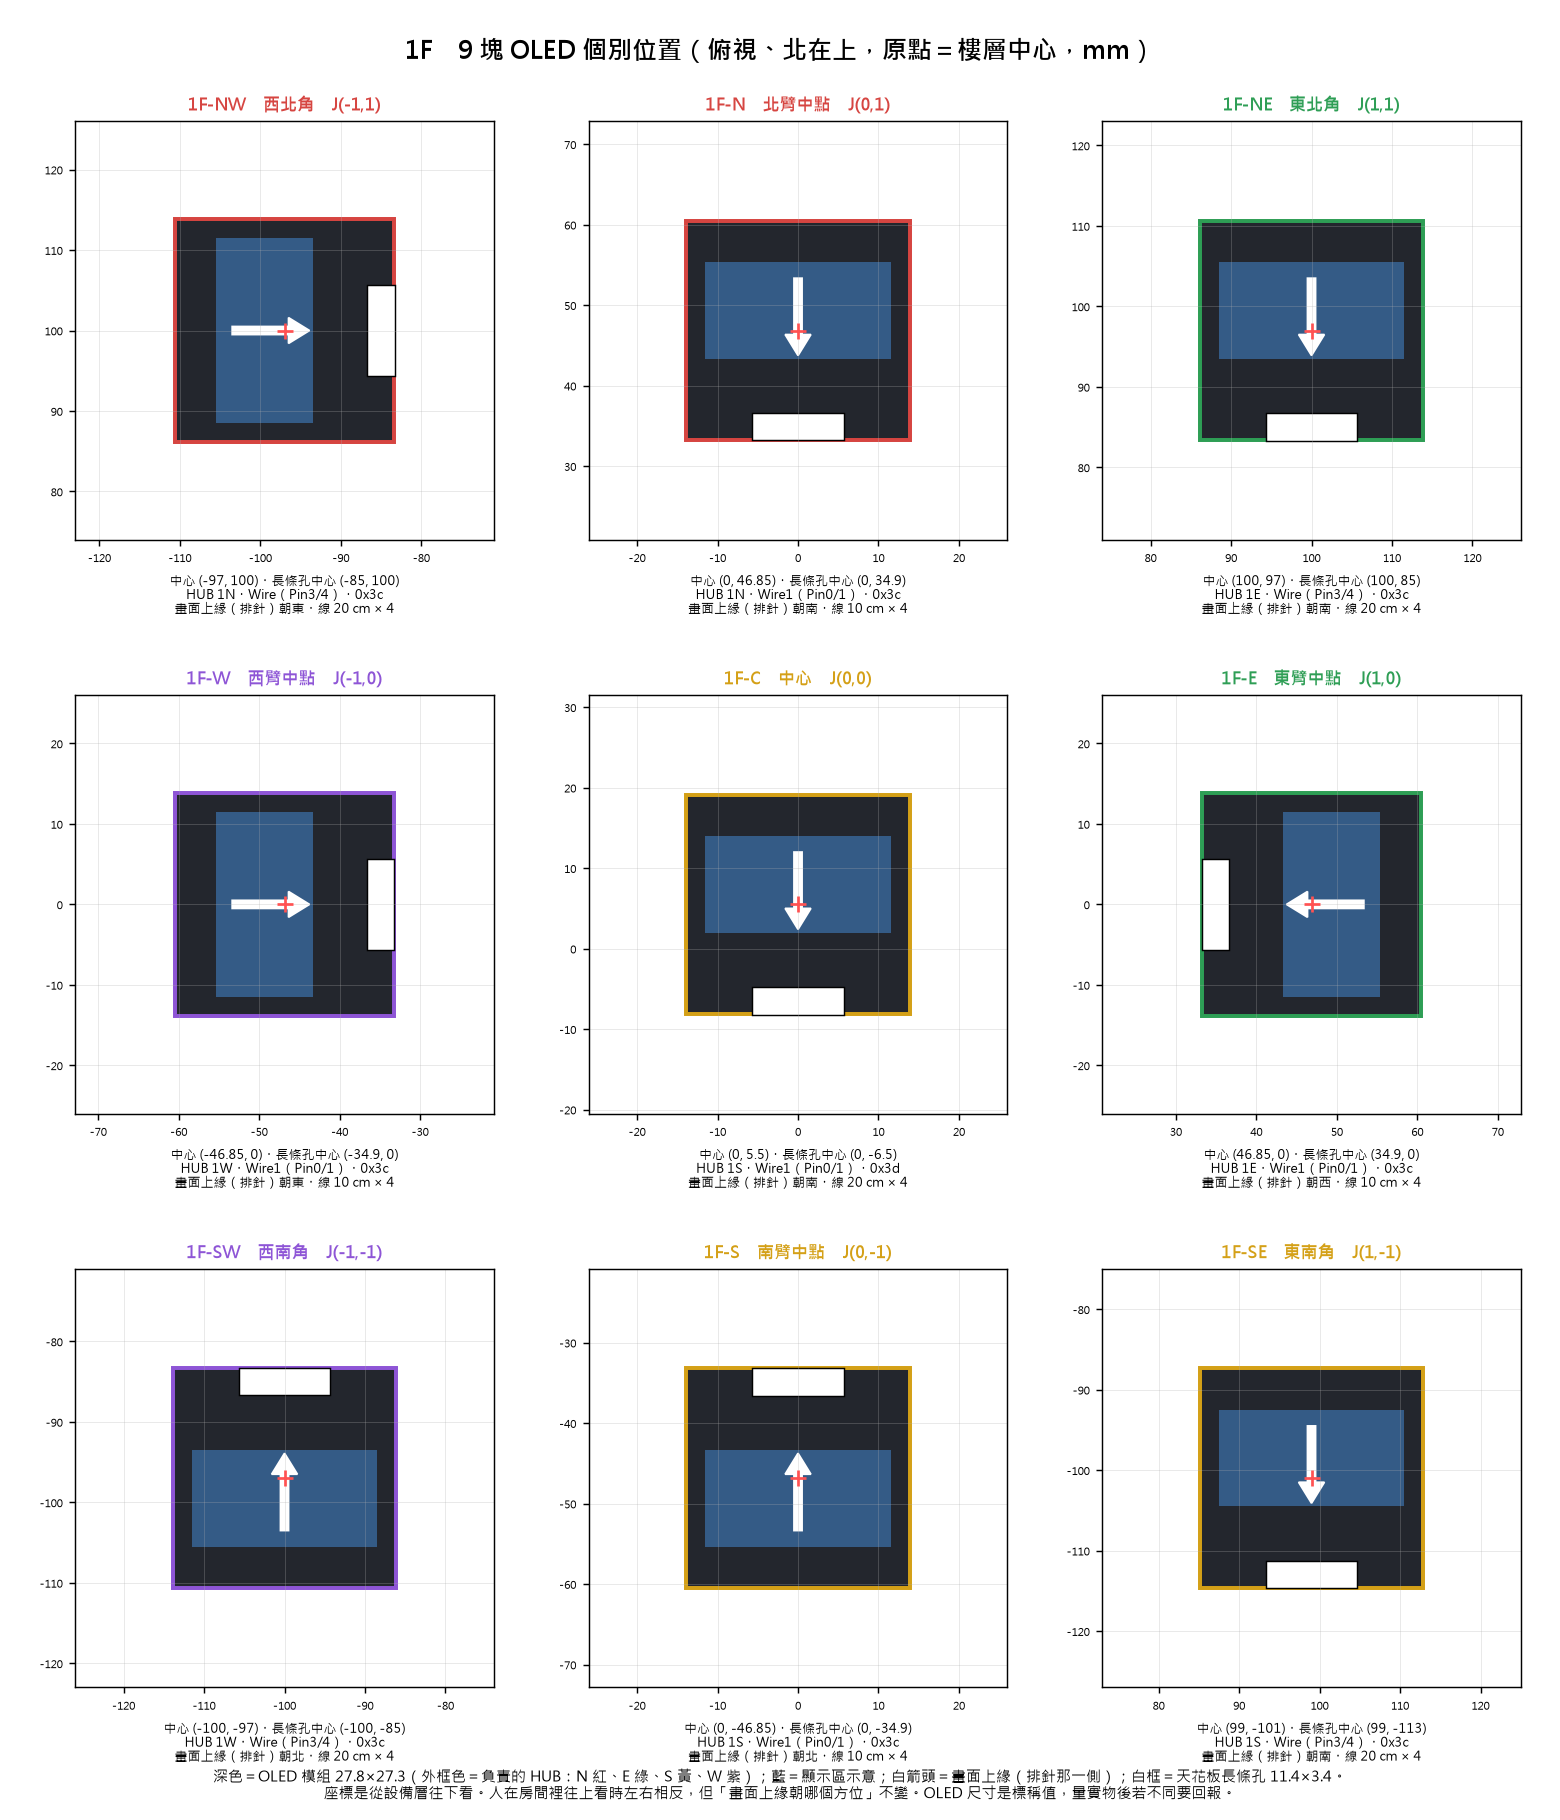
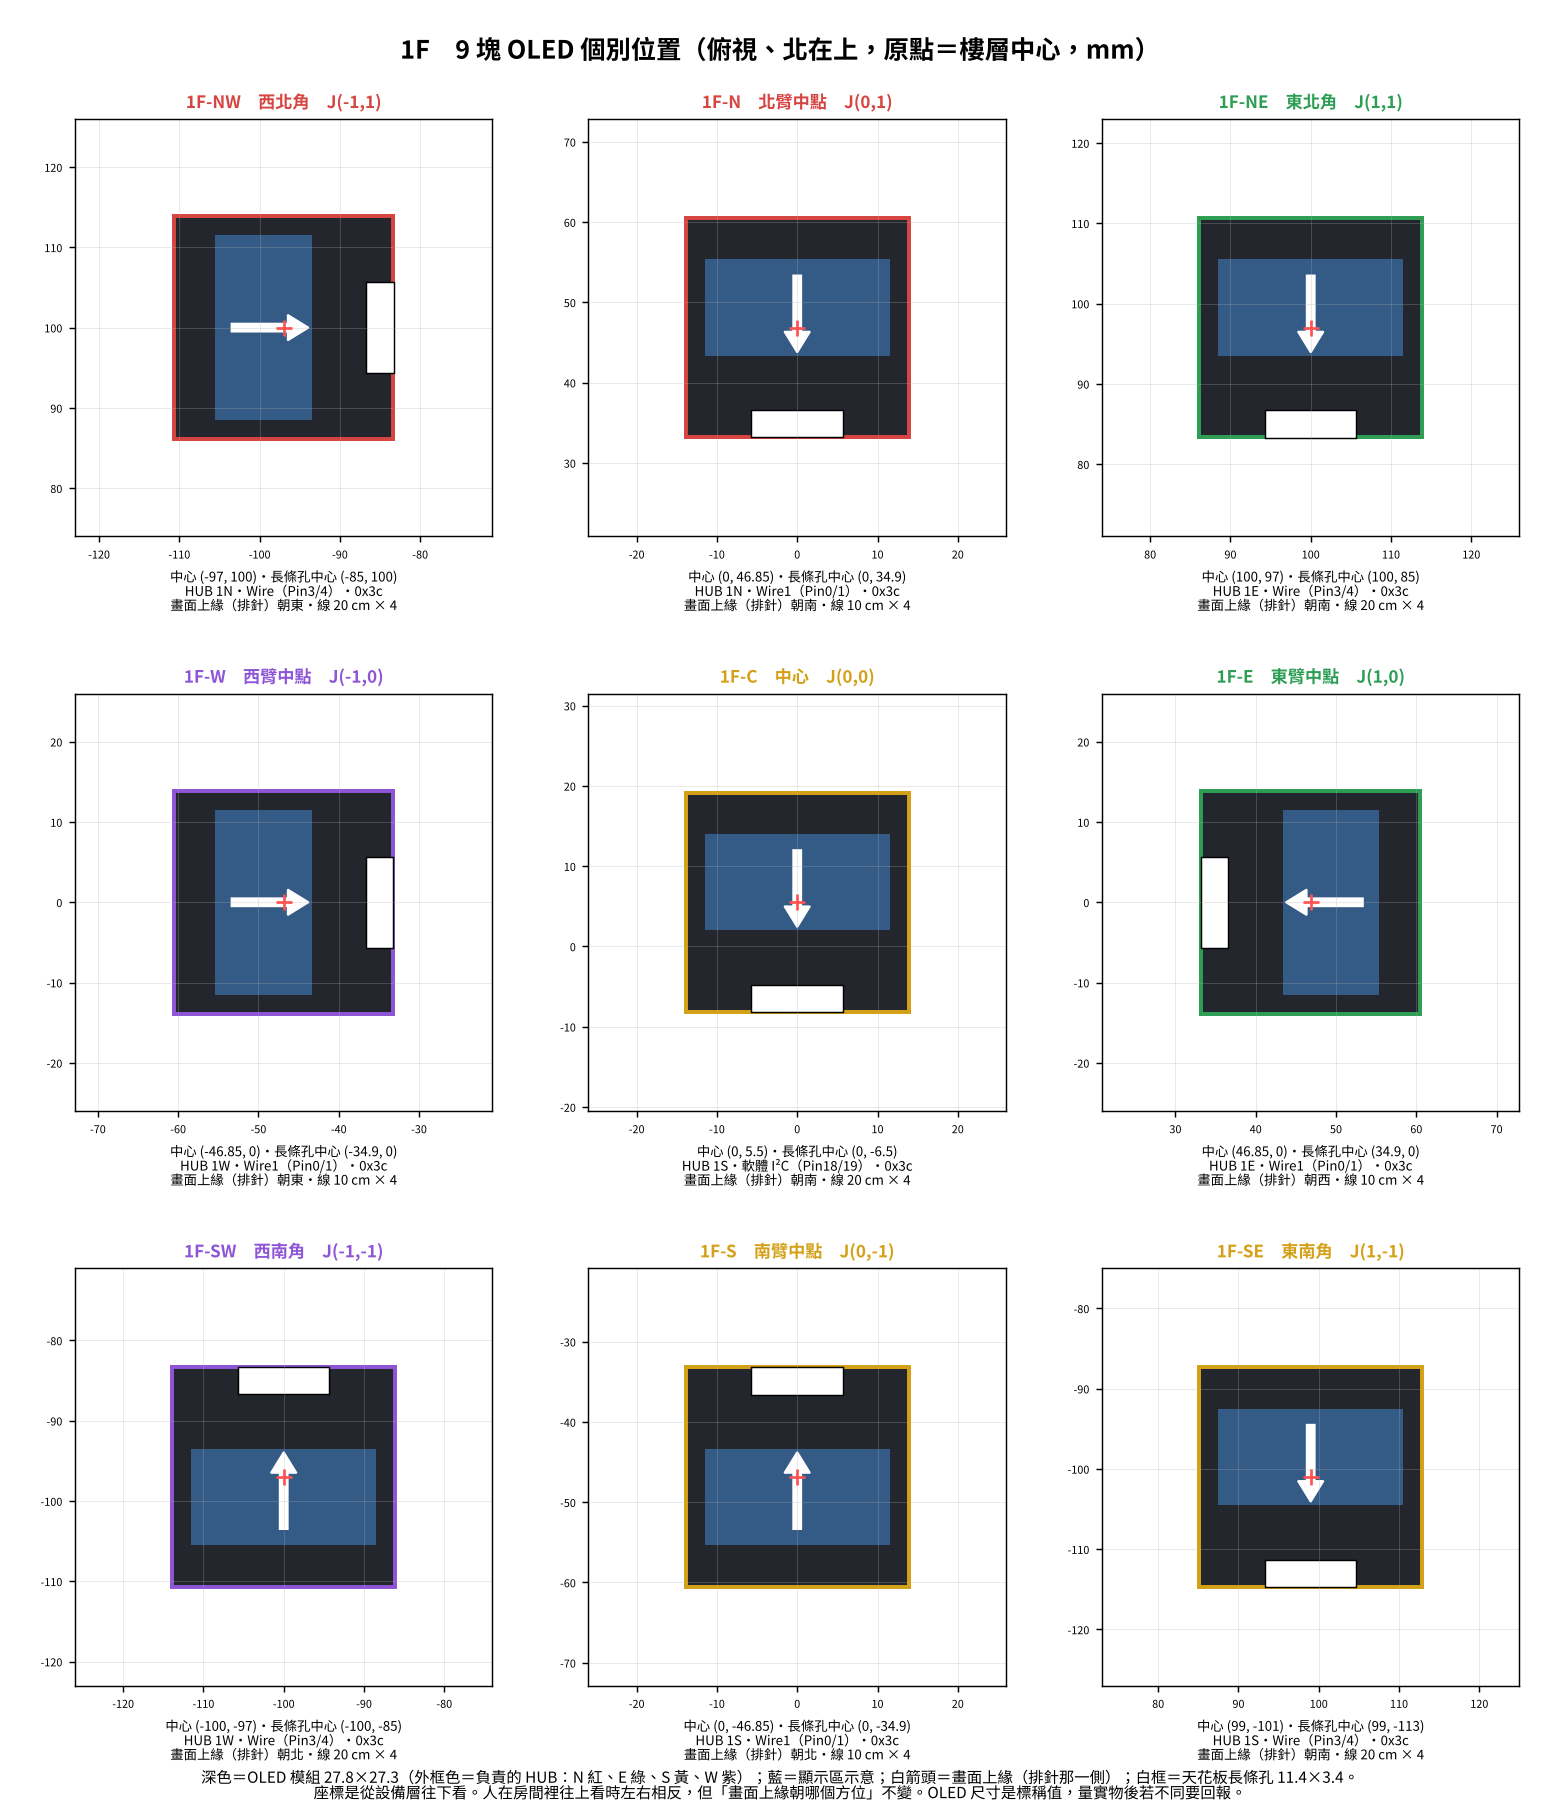
docs(wiring): centre OLEDs on software I2C Pin18/19 in table, json, cards
The 11/23 decision (keep factory 0x3C, centre OLEDs on the S-seat HUB's
software I2C, SDA Pin18 / SCL Pin19) was in hub_node.ino and the
wiring_8hub README note, but the generated docs still said Wire1 0x3D:
- wiring_8hub.json: both centre OLEDs and their 8 wires now bus "Soft",
  addr 0x3c, SCL -> Pin19, SDA -> Pin18; note added.
- 接線表_72條.md: rows 25-28 and the 2F centre rows updated, note at top.
  Wire lengths are unchanged (20 cm, 65-67 mm slack).
- oled_layout/plot_oled_cards.py: knows the "Soft" bus; regenerated both
  card PNGs and OLED個別配置表.md.

Also: small7_results README named the training GPU as RTX 5060; nvidia-smi
on the machine shows RTX 4060 Laptop (8 GB). Corrected.

Claude-Session: https://claude.ai/code/session_01SFyo4RY6My825C5r3GTMjd

diff --git a/wiring_8hub/接線表_72條.md b/wiring_8hub/接線表_72條.md
@@ -6,6 +6,7 @@
 - 每條長度＝母頭外殼 14 mm＋線身＋公頭外殼與針 20 mm：10 cm 線身 66 mm，20 cm 線身 166 mm。母頭插 OLED 排針，公頭插麵包板。
 - 「多餘」＝線身減掉走線需要的長度。同一塊 OLED 的 4 條一起收：多餘少的在線排上壓成低拱，多的在線排正上方繞成直立線圈（高度 ≤ 28 mm，在樓板下方）。實際組裝可用一小段束線帶或膠帶把線圈固定在天花板上。
 - 排針順序（從下方看、排針在上）：GND、VCC、SCL、SDA。顏色：黑 GND、紅 VCC、黃 SCL、綠 SDA。
+- **2026-11-23 起兩層中心 OLED 接 S 座 HUB 的軟體 I²C（SDA Pin18／SCL Pin19），出廠 0x3C，不改焊**；長度不變。
 - GND／VCC 插麵包板藍／紅電源軌（每台 HUB 先用 2 條短跳線把 3V3、GND 接到電源軌，不算在 72 條裡）。
 
 | # | 樓層 | OLED（路口） | HUB | 匯流排／位址 | OLED 腳 | HUB 端（麵包板） | 顏色 | 進座 | 線長 | 線身需要 mm | 多餘 mm |
@@ -34,10 +35,10 @@
 | 22 | 1F | S J(0,-1) | 1S | Wire1 0x3c | VCC | 3V3（紅軌） | 紅 | 朝中心窗口 | **10 cm** | 50 | 16 |
 | 23 | 1F | S J(0,-1) | 1S | Wire1 0x3c | SCL | Pin1 | 黃 | 朝中心窗口 | **10 cm** | 54 | 12 |
 | 24 | 1F | S J(0,-1) | 1S | Wire1 0x3c | SDA | Pin0 | 綠 | 朝中心窗口 | **10 cm** | 60 | 6 |
-| 25 | 1F | C J(0,0) | 1S | Wire1 0x3d | GND | GND（藍軌） | 黑 | 朝中心窗口 | **20 cm** | 100 | 66 |
-| 26 | 1F | C J(0,0) | 1S | Wire1 0x3d | VCC | 3V3（紅軌） | 紅 | 朝中心窗口 | **20 cm** | 99 | 67 |
-| 27 | 1F | C J(0,0) | 1S | Wire1 0x3d | SCL | Pin1 | 黃 | 朝中心窗口 | **20 cm** | 100 | 66 |
-| 28 | 1F | C J(0,0) | 1S | Wire1 0x3d | SDA | Pin0 | 綠 | 朝中心窗口 | **20 cm** | 101 | 65 |
+| 25 | 1F | C J(0,0) | 1S | 軟體 I²C 0x3c | GND | GND（藍軌） | 黑 | 朝中心窗口 | **20 cm** | 100 | 66 |
+| 26 | 1F | C J(0,0) | 1S | 軟體 I²C 0x3c | VCC | 3V3（紅軌） | 紅 | 朝中心窗口 | **20 cm** | 99 | 67 |
+| 27 | 1F | C J(0,0) | 1S | 軟體 I²C 0x3c | SCL | Pin19 | 黃 | 朝中心窗口 | **20 cm** | 100 | 66 |
+| 28 | 1F | C J(0,0) | 1S | 軟體 I²C 0x3c | SDA | Pin18 | 綠 | 朝中心窗口 | **20 cm** | 101 | 65 |
 | 29 | 1F | SW J(-1,-1) | 1W | Wire 0x3c | GND | GND（藍軌） | 黑 | 側窗 | **20 cm** | 106 | 60 |
 | 30 | 1F | SW J(-1,-1) | 1W | Wire 0x3c | VCC | 3V3（紅軌） | 紅 | 側窗 | **20 cm** | 107 | 59 |
 | 31 | 1F | SW J(-1,-1) | 1W | Wire 0x3c | SCL | Pin4 | 黃 | 側窗 | **20 cm** | 109 | 57 |
@@ -70,10 +71,10 @@
 | 58 | 2F | S J2(0,-1) | 2S | Wire1 0x3c | VCC | 3V3（紅軌） | 紅 | 朝中心窗口 | **10 cm** | 50 | 16 |
 | 59 | 2F | S J2(0,-1) | 2S | Wire1 0x3c | SCL | Pin1 | 黃 | 朝中心窗口 | **10 cm** | 54 | 12 |
 | 60 | 2F | S J2(0,-1) | 2S | Wire1 0x3c | SDA | Pin0 | 綠 | 朝中心窗口 | **10 cm** | 60 | 6 |
-| 61 | 2F | C J2(0,0) | 2S | Wire1 0x3d | GND | GND（藍軌） | 黑 | 朝中心窗口 | **20 cm** | 109 | 57 |
-| 62 | 2F | C J2(0,0) | 2S | Wire1 0x3d | VCC | 3V3（紅軌） | 紅 | 朝中心窗口 | **20 cm** | 109 | 57 |
-| 63 | 2F | C J2(0,0) | 2S | Wire1 0x3d | SCL | Pin1 | 黃 | 朝中心窗口 | **20 cm** | 109 | 57 |
-| 64 | 2F | C J2(0,0) | 2S | Wire1 0x3d | SDA | Pin0 | 綠 | 朝中心窗口 | **20 cm** | 111 | 55 |
+| 61 | 2F | C J2(0,0) | 2S | 軟體 I²C 0x3c | GND | GND（藍軌） | 黑 | 朝中心窗口 | **20 cm** | 109 | 57 |
+| 62 | 2F | C J2(0,0) | 2S | 軟體 I²C 0x3c | VCC | 3V3（紅軌） | 紅 | 朝中心窗口 | **20 cm** | 109 | 57 |
+| 63 | 2F | C J2(0,0) | 2S | 軟體 I²C 0x3c | SCL | Pin19 | 黃 | 朝中心窗口 | **20 cm** | 109 | 57 |
+| 64 | 2F | C J2(0,0) | 2S | 軟體 I²C 0x3c | SDA | Pin18 | 綠 | 朝中心窗口 | **20 cm** | 111 | 55 |
 | 65 | 2F | SW J2(-1,-1) | 2W | Wire 0x3c | GND | GND（藍軌） | 黑 | 側窗 | **20 cm** | 112 | 54 |
 | 66 | 2F | SW J2(-1,-1) | 2W | Wire 0x3c | VCC | 3V3（紅軌） | 紅 | 側窗 | **20 cm** | 120 | 46 |
 | 67 | 2F | SW J2(-1,-1) | 2W | Wire 0x3c | SCL | Pin4 | 黃 | 側窗 | **20 cm** | 126 | 40 |

diff --git a/wiring_8hub/oled_layout/OLED個別配置表.md b/wiring_8hub/oled_layout/OLED個別配置表.md
@@ -8,7 +8,7 @@
 | 1F-N | J(0,1) | 北臂中點 | (0, 46.85) | (0, 34.9) | 南 | 1N | Wire1（Pin0/1） | 0x3c | 10 cm × 4 |
 | 1F-NE | J(1,1) | 東北角 | (100, 97) | (100, 85) | 南 | 1E | Wire（Pin3/4） | 0x3c | 20 cm × 4 |
 | 1F-W | J(-1,0) | 西臂中點 | (-46.85, 0) | (-34.9, 0) | 東 | 1W | Wire1（Pin0/1） | 0x3c | 10 cm × 4 |
-| 1F-C | J(0,0) | 中心 | (0, 5.5) | (0, -6.5) | 南 | 1S | Wire1（Pin0/1） | 0x3d | 20 cm × 4 |
+| 1F-C | J(0,0) | 中心 | (0, 5.5) | (0, -6.5) | 南 | 1S | 軟體 I²C（Pin18/19） | 0x3c | 20 cm × 4 |
 | 1F-E | J(1,0) | 東臂中點 | (46.85, 0) | (34.9, 0) | 西 | 1E | Wire1（Pin0/1） | 0x3c | 10 cm × 4 |
 | 1F-SW | J(-1,-1) | 西南角 | (-100, -97) | (-100, -85) | 北 | 1W | Wire（Pin3/4） | 0x3c | 20 cm × 4 |
 | 1F-S | J(0,-1) | 南臂中點 | (0, -46.85) | (0, -34.9) | 北 | 1S | Wire1（Pin0/1） | 0x3c | 10 cm × 4 |
@@ -17,7 +17,7 @@
 | 2F-N | J2(0,1) | 北臂中點 | (0, 46.85) | (0, 34.9) | 南 | 2N | Wire1（Pin0/1） | 0x3c | 10 cm × 4 |
 | 2F-NE | J2(1,1) | 東北角 | (101.5, 97) | (101.5, 85) | 南 | 2E | Wire（Pin3/4） | 0x3c | 20 cm × 4 |
 | 2F-W | J2(-1,0) | 西臂中點 | (-46.85, 0) | (-34.9, 0) | 東 | 2W | Wire1（Pin0/1） | 0x3c | 10 cm × 4 |
-| 2F-C | J2(0,0) | 中心 | (0, 5.5) | (0, -6.5) | 南 | 2S | Wire1（Pin0/1） | 0x3d | 20 cm × 4 |
+| 2F-C | J2(0,0) | 中心 | (0, 5.5) | (0, -6.5) | 南 | 2S | 軟體 I²C（Pin18/19） | 0x3c | 20 cm × 4 |
 | 2F-E | J2(1,0) | 東臂中點 | (46.85, 0) | (34.9, 0) | 西 | 2E | Wire1（Pin0/1） | 0x3c | 10 cm × 4 |
 | 2F-SW | J2(-1,-1) | 西南角 | (-101.75, -97) | (-101.8, -85) | 北 | 2W | Wire（Pin3/4） | 0x3c | 20 cm × 4 |
 | 2F-S | J2(0,-1) | 南臂中點 | (0, -46.85) | (0, -34.9) | 北 | 2S | Wire1（Pin0/1） | 0x3c | 10 cm × 4 |
